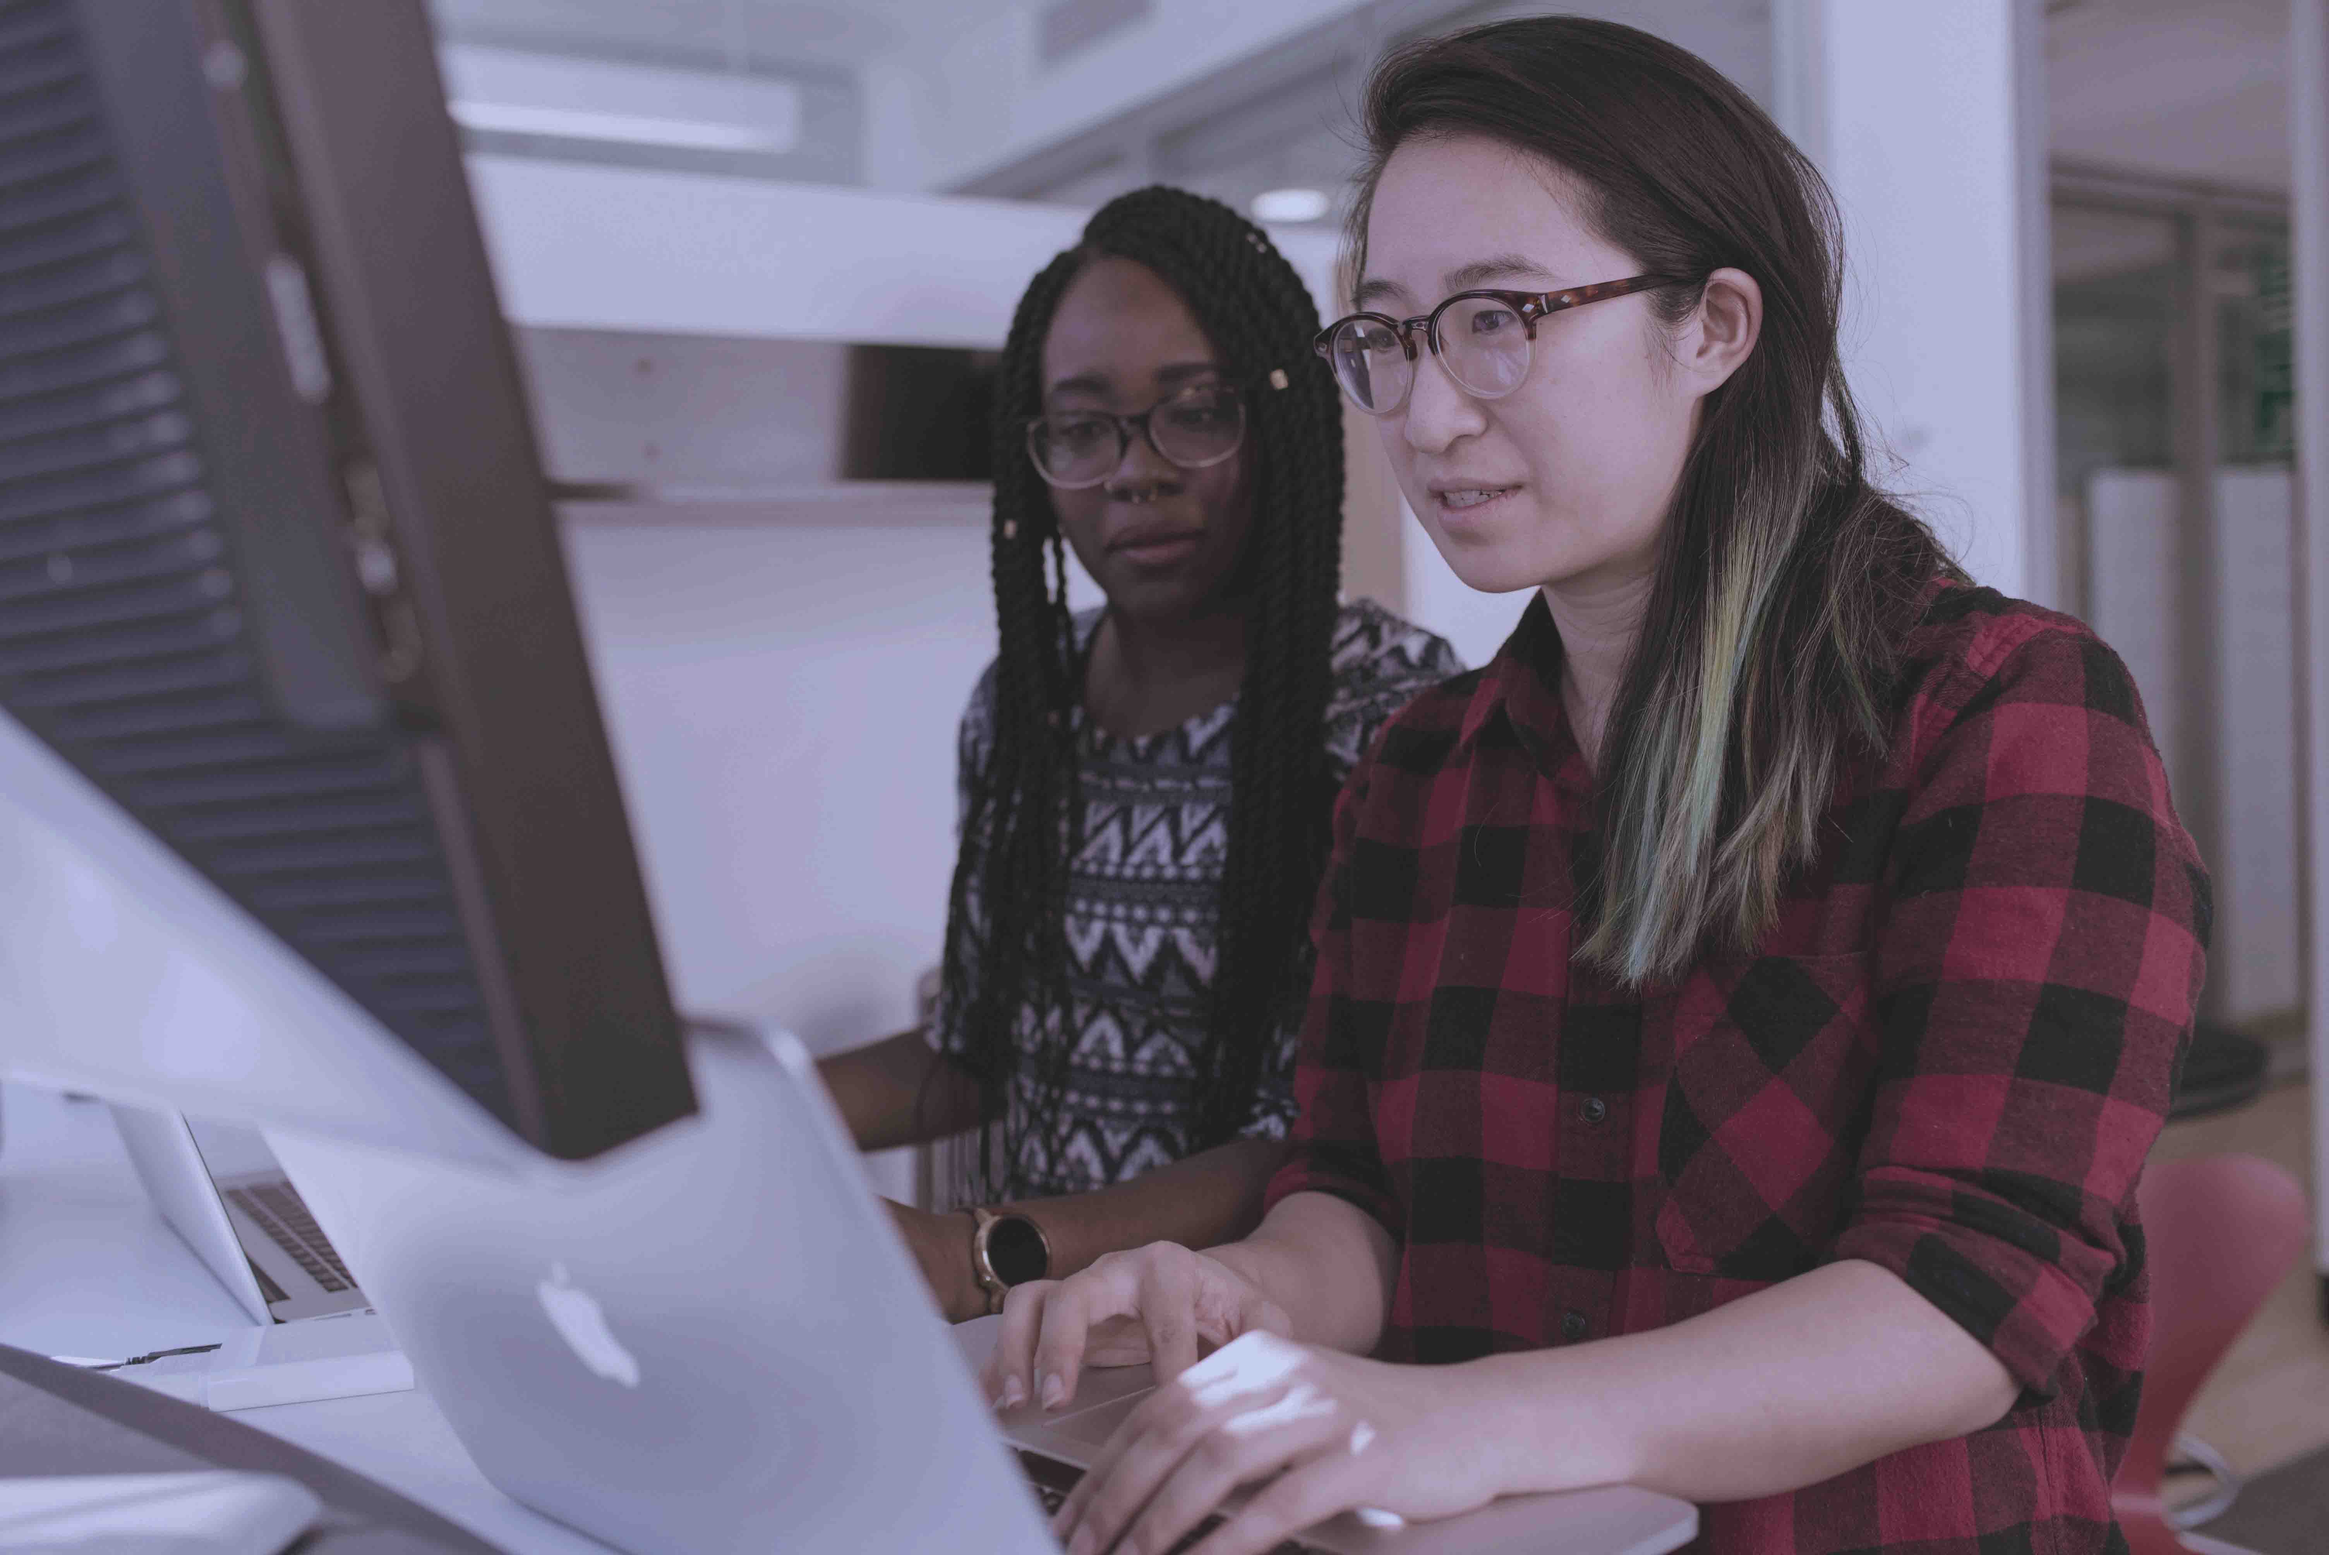
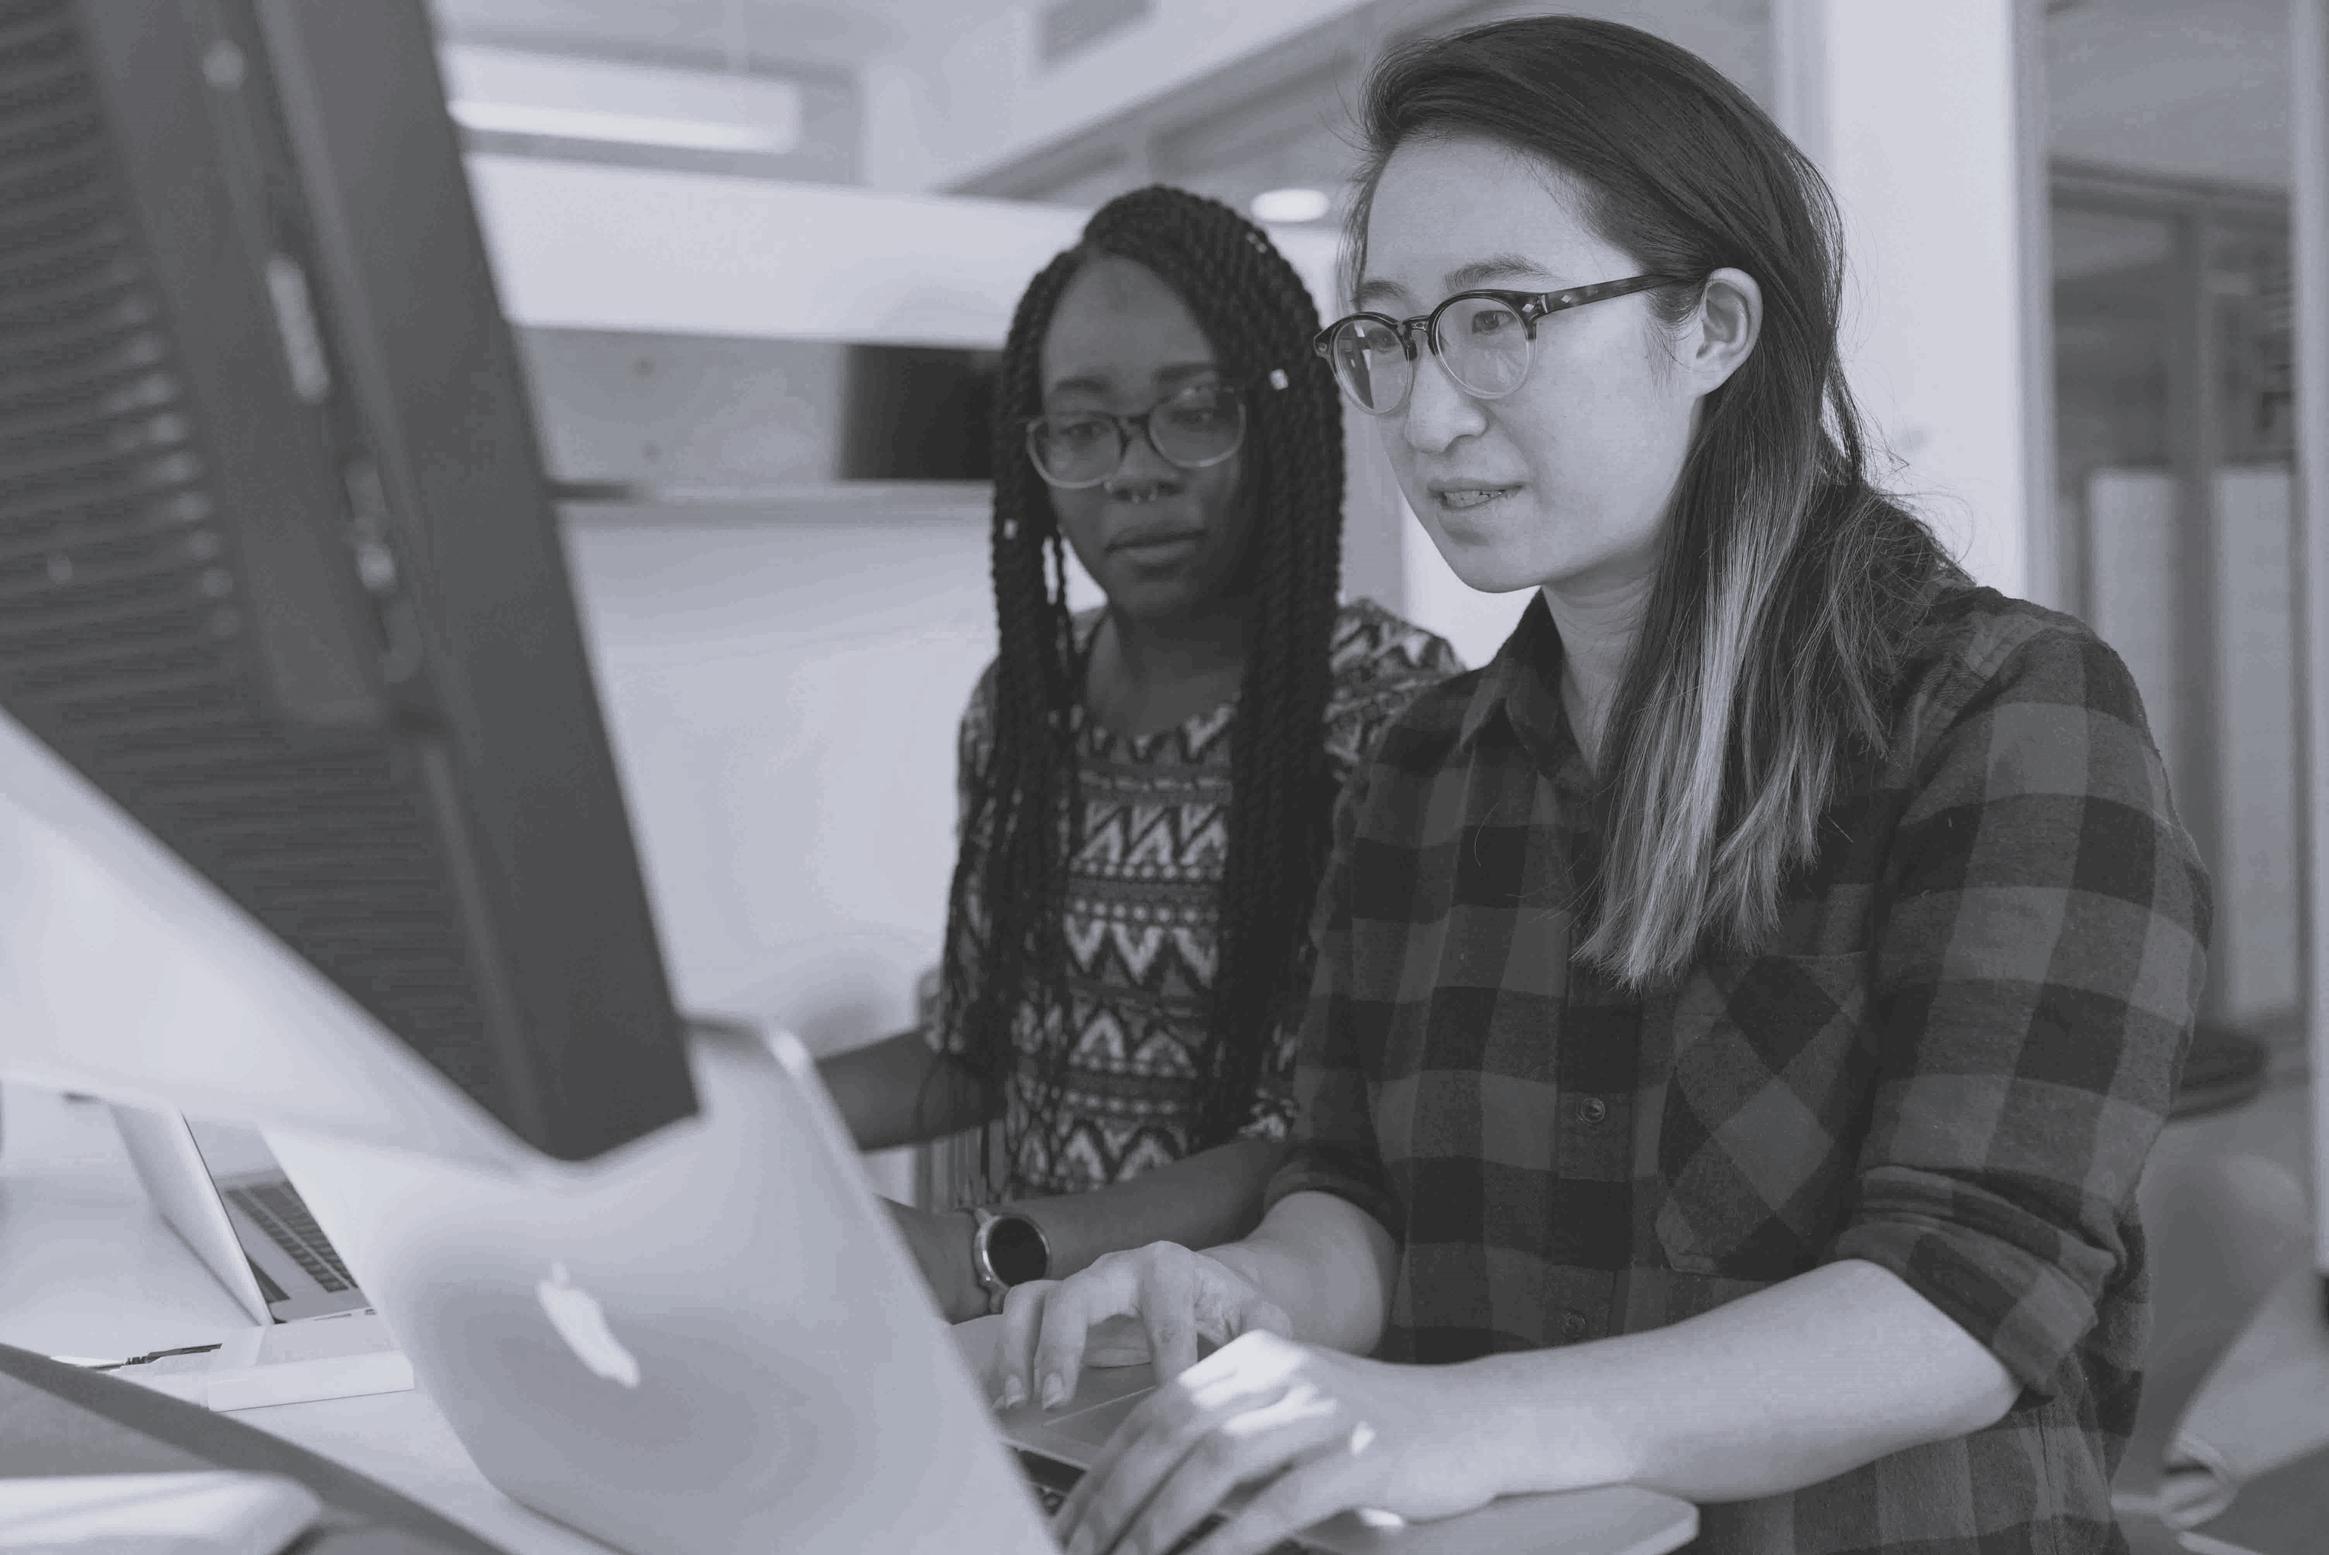
Image update

diff --git a/olo_website/static/src/css/olo-acceuil.css b/olo_website/static/src/css/olo-acceuil.css
@@ -173,7 +173,7 @@ p {
 .main-consultant {
     /* -webkit-transform: scaleX(-1);
     transform: scaleX(-1); */
-    filter: drop-shadow(0px 0px 15px rgba(0, 0, 0, 0.2));
+    filter: grayscale(1) drop-shadow(0px 0px 15px rgba(0, 0, 0, 0.2));
     /* z-index: 2; */
     position: absolute;
     height: 105% !important;
@@ -609,6 +609,11 @@ p.text-white.fw-400 {
     color: var(--blue-color);
     font-size: 35px;
     font-weight: 400;
+}
+
+.proactif_olo img,
+.conseil_olo img {
+    filter: grayscale(1);
 }
 
 .proactif_text,

diff --git a/olo_website/static/src/css/olo-about.css b/olo_website/static/src/css/olo-about.css
@@ -97,12 +97,15 @@ p {
 }
 
 #about_olo {
-    /* background-image: url('Fond\ carousel.svg'); */
     background-image: url('Fond\ bleu.svg');
     height: 100vh;
     background-size: cover;
     position: relative;
     overflow: hidden;
+}
+
+#about_olo .carousel-item {
+    filter: grayscale(1);
 }
 
 #about_olo .about_carousel {
